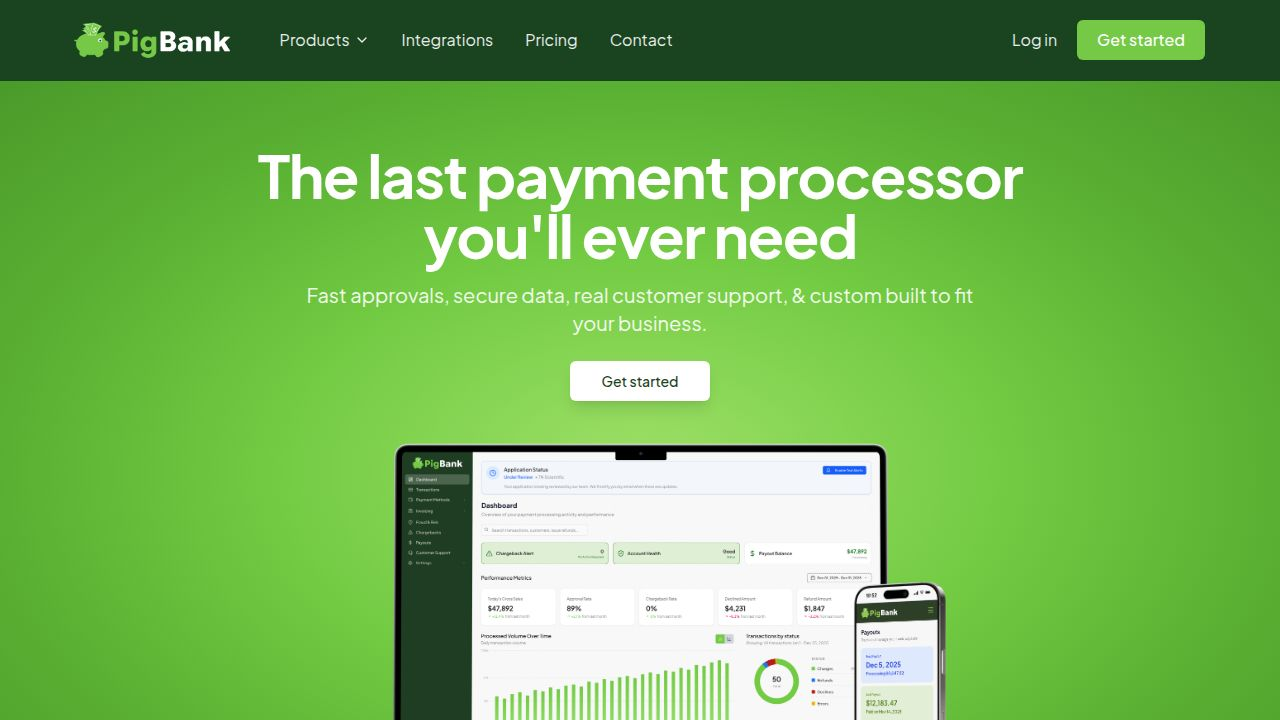
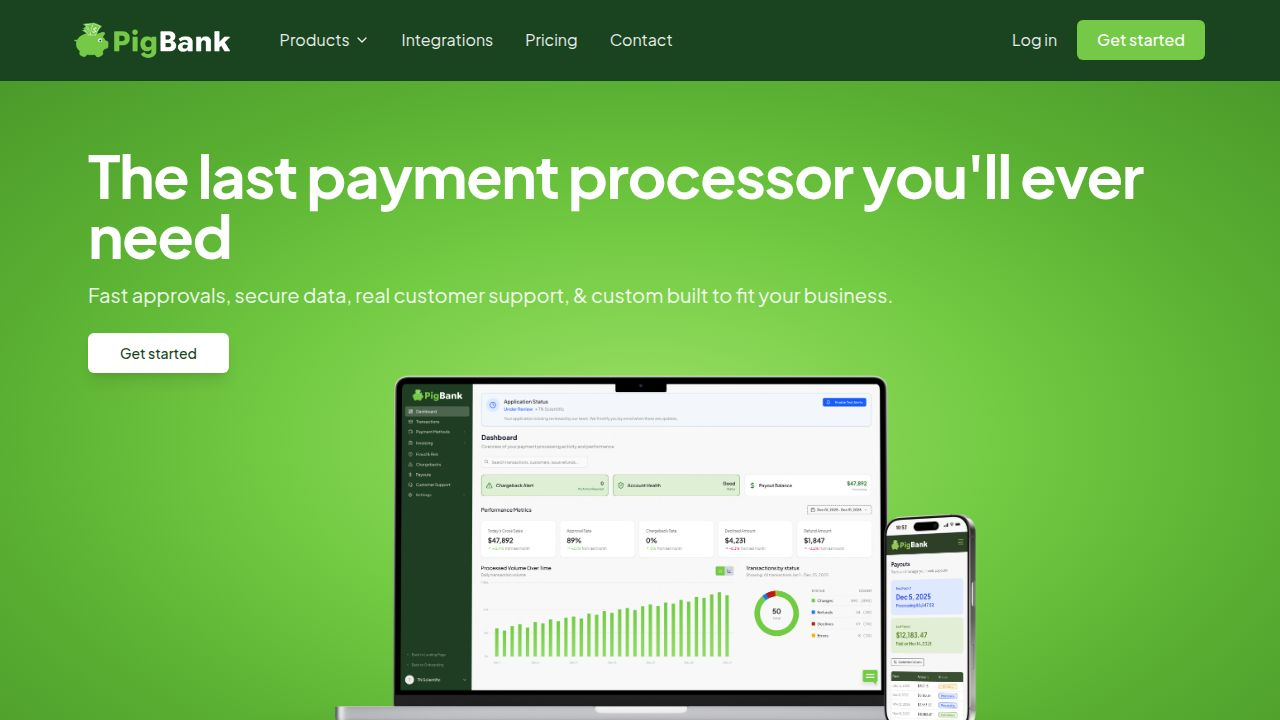
Update Hero section layout to adapt to available content width
Implement CSS container queries for the Hero section, allowing it to dynamically adjust its layout (stacked or side-by-side) based on available container width, ensuring optimal display across various screen sizes and development environments.

Replit-Commit-Author: Agent
Replit-Commit-Session-Id: 96020ddc-f98f-4070-bbd5-d7d39c5acb5d
Replit-Commit-Checkpoint-Type: intermediate_checkpoint
Replit-Commit-Event-Id: 8d05d6e4-d5fd-43fa-837c-6855ad7582b2
Replit-Commit-Screenshot-Url: https://storage.googleapis.com/screenshot-production-us-central1/ee567252-c1f1-45c7-bba9-ef8d3212ce6e/96020ddc-f98f-4070-bbd5-d7d39c5acb5d/XkrqEYv
Replit-Helium-Checkpoint-Created: true

diff --git a/client/src/pages/Landing.tsx b/client/src/pages/Landing.tsx
@@ -461,18 +461,20 @@ export default function Landing() {
             background: 'radial-gradient(ellipse at center, #9ee068 0%, #73cb43 40%, #5ab032 70%, #4a9a2a 100%)'
           }}
         >
-                    
-          <div className="flex min-h-[650px] md:min-h-[730px] lg:min-h-[700px] items-center pt-12 md:pt-16 pb-12 md:pb-16">
-            <div className="container px-6 md:px-12 max-w-6xl mx-auto relative z-10">
-              <div className="flex flex-col items-center text-center gap-6">
-                <div className="space-y-4 max-w-3xl">
-                  <h1 className="text-4xl md:text-5xl lg:text-6xl font-bold tracking-tight text-white">
+          <div className="min-h-[650px] md:min-h-[700px] flex items-center py-12 md:py-16">
+            <div 
+              className="hero-container w-full px-6 md:px-12 max-w-[1200px] mx-auto relative z-10"
+              style={{ containerType: 'inline-size' }}
+            >
+              <div className="hero-grid">
+                <div className="hero-text">
+                  <h1 className="text-4xl md:text-5xl lg:text-6xl font-bold tracking-tight text-white mb-4">
                     The last payment processor you'll ever need
                   </h1>
-                  <p className="text-lg md:text-xl text-white/90 max-w-2xl mx-auto">
+                  <p className="text-lg md:text-xl text-white/90 mb-6">
                     Fast approvals, secure data, real customer support, & custom built to fit your business.
                   </p>
-                  <div className="flex gap-4 justify-center pt-2">
+                  <div className="hero-cta">
                     <Button 
                       asChild 
                       size="lg" 
@@ -484,9 +486,9 @@ export default function Landing() {
                   </div>
                 </div>
                 
-                <div className="relative flex items-center justify-center mt-4">
+                <div className="hero-image">
                   <div 
-                    className="relative"
+                    className="relative max-w-[680px] mx-auto"
                     style={{ transform: `translateY(${scrollY * 0.015}px)` }}
                   >
                     <div 
@@ -499,12 +501,12 @@ export default function Landing() {
                     <img 
                       src="/macbook-dashboard-new.png" 
                       alt="PigBank Dashboard on MacBook" 
-                      className="w-[340px] md:w-[450px] lg:w-[540px] xl:w-[620px] h-auto"
+                      className="w-full max-w-[620px] h-auto mx-auto"
                     />
                     <img 
                       src="/iphone-payouts.png" 
                       alt="PigBank Payouts on iPhone" 
-                      className="absolute w-[55px] md:w-[70px] lg:w-[85px] xl:w-[100px] h-auto z-20 bottom-0 right-0"
+                      className="absolute w-[15%] max-w-[100px] h-auto z-20 bottom-0 right-0"
                     />
                   </div>
                 </div>
@@ -1322,6 +1324,63 @@ export default function Landing() {
         </div>
       </footer>
       <style>{`
+        /* Hero Container Query Styles */
+        .hero-grid {
+          display: grid;
+          grid-template-columns: 1fr;
+          gap: 2rem;
+          align-items: center;
+        }
+        
+        .hero-text {
+          text-align: center;
+          max-width: 48rem;
+          margin: 0 auto;
+        }
+        
+        .hero-text p {
+          max-width: 40rem;
+          margin-left: auto;
+          margin-right: auto;
+        }
+        
+        .hero-cta {
+          display: flex;
+          justify-content: center;
+        }
+        
+        .hero-image {
+          display: flex;
+          justify-content: center;
+        }
+        
+        @container (min-width: 980px) {
+          .hero-grid {
+            grid-template-columns: 55fr 45fr;
+            gap: 3rem;
+          }
+          
+          .hero-text {
+            text-align: left;
+            max-width: none;
+            margin: 0;
+          }
+          
+          .hero-text p {
+            max-width: none;
+            margin-left: 0;
+            margin-right: 0;
+          }
+          
+          .hero-cta {
+            justify-content: flex-start;
+          }
+          
+          .hero-image {
+            justify-content: flex-end;
+          }
+        }
+        
         @keyframes float {
           0%, 100% { transform: translateY(0px); }
           50% { transform: translateY(-10px); }
